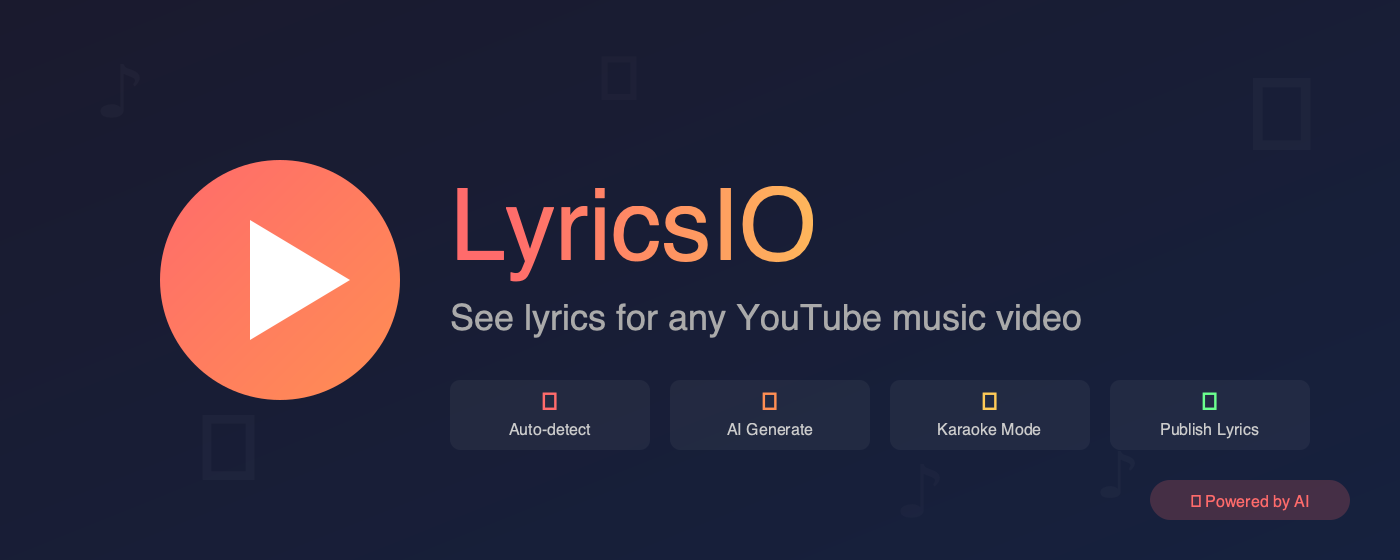
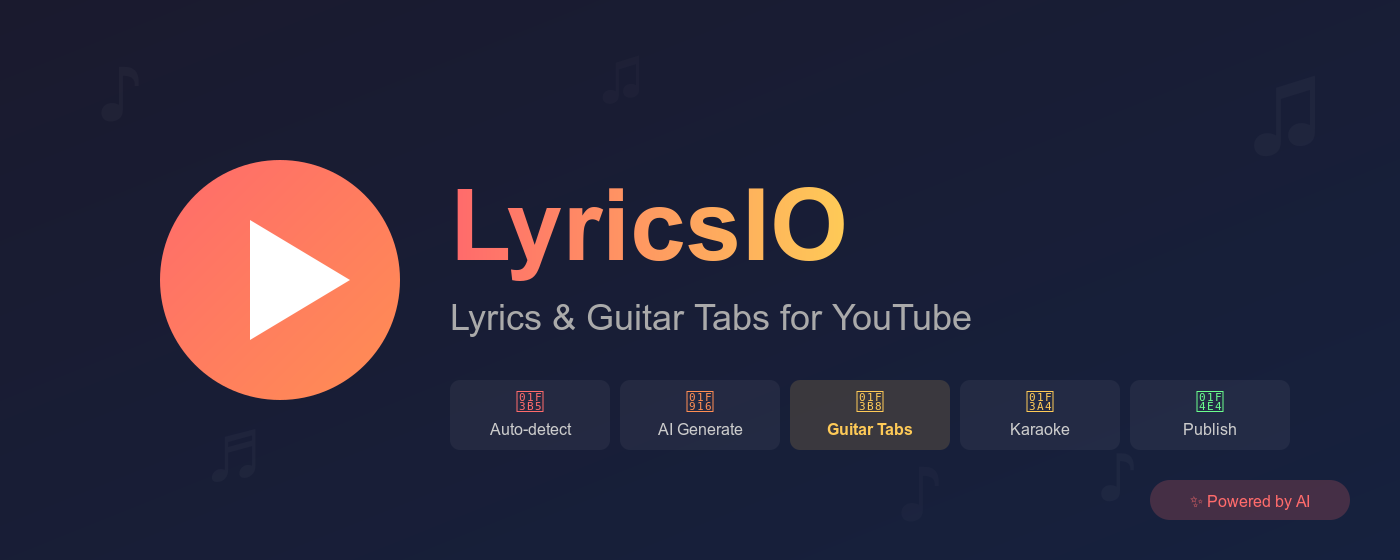
chore: Bump version to 1.0.1 and update documentation for guitar tabs feature
- Updated version number in manifest.json.
- Enhanced index.html title and description to reflect guitar tabs functionality.
- Added new feature section for guitar tabs in the documentation.
- Updated promotional SVGs and screenshots to include guitar tabs and improved layout.

diff --git a/docs/index.html b/docs/index.html
@@ -3,8 +3,8 @@
 <head>
   <meta charset="UTF-8">
   <meta name="viewport" content="width=device-width, initial-scale=1.0">
-  <title>LyricsIO - YouTube Lyrics Extension</title>
-  <meta name="description" content="See lyrics for any YouTube music video with AI-powered generation and karaoke overlay">
+  <title>LyricsIO - YouTube Lyrics & Guitar Tabs Extension</title>
+  <meta name="description" content="See lyrics and guitar tabs for any YouTube music video with AI-powered generation, chords above lyrics, and karaoke overlay">
   <style>
     * {
       margin: 0;
@@ -85,9 +85,34 @@
     
     .features {
       display: grid;
-      grid-template-columns: repeat(auto-fit, minmax(250px, 1fr));
+      grid-template-columns: repeat(auto-fit, minmax(220px, 1fr));
       gap: 25px;
       margin: 50px 0;
+    }
+    
+    .feature.new {
+      border: 2px solid rgba(254,202,87,0.3);
+      background: rgba(254,202,87,0.1);
+    }
+    
+    .feature.new .feature-icon {
+      animation: pulse 2s ease-in-out infinite;
+    }
+    
+    @keyframes pulse {
+      0%, 100% { transform: scale(1); }
+      50% { transform: scale(1.1); }
+    }
+    
+    .new-badge {
+      display: inline-block;
+      background: linear-gradient(135deg, #ff6b6b, #feca57);
+      color: #1a1a2e;
+      font-size: 0.7rem;
+      font-weight: bold;
+      padding: 3px 8px;
+      border-radius: 10px;
+      margin-left: 8px;
     }
     
     .feature {
@@ -153,7 +178,7 @@
         <div class="logo-icon">▶</div>
       </div>
       <h1>LyricsIO</h1>
-      <p class="tagline">See lyrics for any YouTube music video</p>
+      <p class="tagline">Lyrics &amp; Guitar Tabs for YouTube</p>
       <a href="https://chromewebstore.google.com/detail/pjbekbmngleneipdjdbggmfjnmdipboe?utm_source=item-share-cb" class="cta-button">
         Add to Chrome - It's Free
       </a>
@@ -172,6 +197,12 @@
         <p>No lyrics found? Generate them from audio using advanced AI transcription</p>
       </div>
       
+      <div class="feature new">
+        <div class="feature-icon">🎸</div>
+        <h3>Guitar Tabs <span class="new-badge">NEW</span></h3>
+        <p>AI generates guitar tabs with chords displayed above lyrics. Perfect for musicians learning new songs!</p>
+      </div>
+      
       <div class="feature">
         <div class="feature-icon">🎤</div>
         <h3>Karaoke Mode</h3>
@@ -181,13 +212,34 @@
       <div class="feature">
         <div class="feature-icon">📤</div>
         <h3>Publish & Share</h3>
-        <p>Contribute AI-generated lyrics to help others find them too</p>
+        <p>Contribute AI-generated lyrics and tabs to help others find them too</p>
+      </div>
+      
+      <div class="feature">
+        <div class="feature-icon">🌍</div>
+        <h3>7 Languages</h3>
+        <p>Available in English, Spanish, Portuguese, French, German, Chinese, and Italian</p>
       </div>
     </section>
     
     <section class="languages">
       <h2>Available in 7 Languages</h2>
       <div class="lang-flags">🇺🇸 🇪🇸 🇧🇷 🇫🇷 🇩🇪 🇨🇳 🇮🇹</div>
+      <p style="margin-top: 20px; color: #888; font-size: 0.9rem;">Switch languages in the extension settings</p>
+    </section>
+    
+    <section style="margin: 50px 0; padding: 30px; background: rgba(255,255,255,0.03); border-radius: 15px; border-left: 4px solid #feca57;">
+      <h2 style="color: #feca57; margin-bottom: 15px;">🎸 How Guitar Tabs Work</h2>
+      <p style="color: #ccc; margin-bottom: 15px;">
+        When you generate lyrics using AI, LyricsIO automatically creates guitar tabs too! 
+        Switch to the <strong>"Tabs"</strong> tab to see chords displayed above the lyrics words where chord changes occur.
+      </p>
+      <ul style="color: #999; margin-left: 20px; line-height: 2;">
+        <li>Chords are aligned above lyrics for easy reading</li>
+        <li>Perfect for guitar players learning new songs</li>
+        <li>AI-generated tabs based on the song's audio</li>
+        <li>Works with any song you generate lyrics for</li>
+      </ul>
     </section>
     
     <footer>
